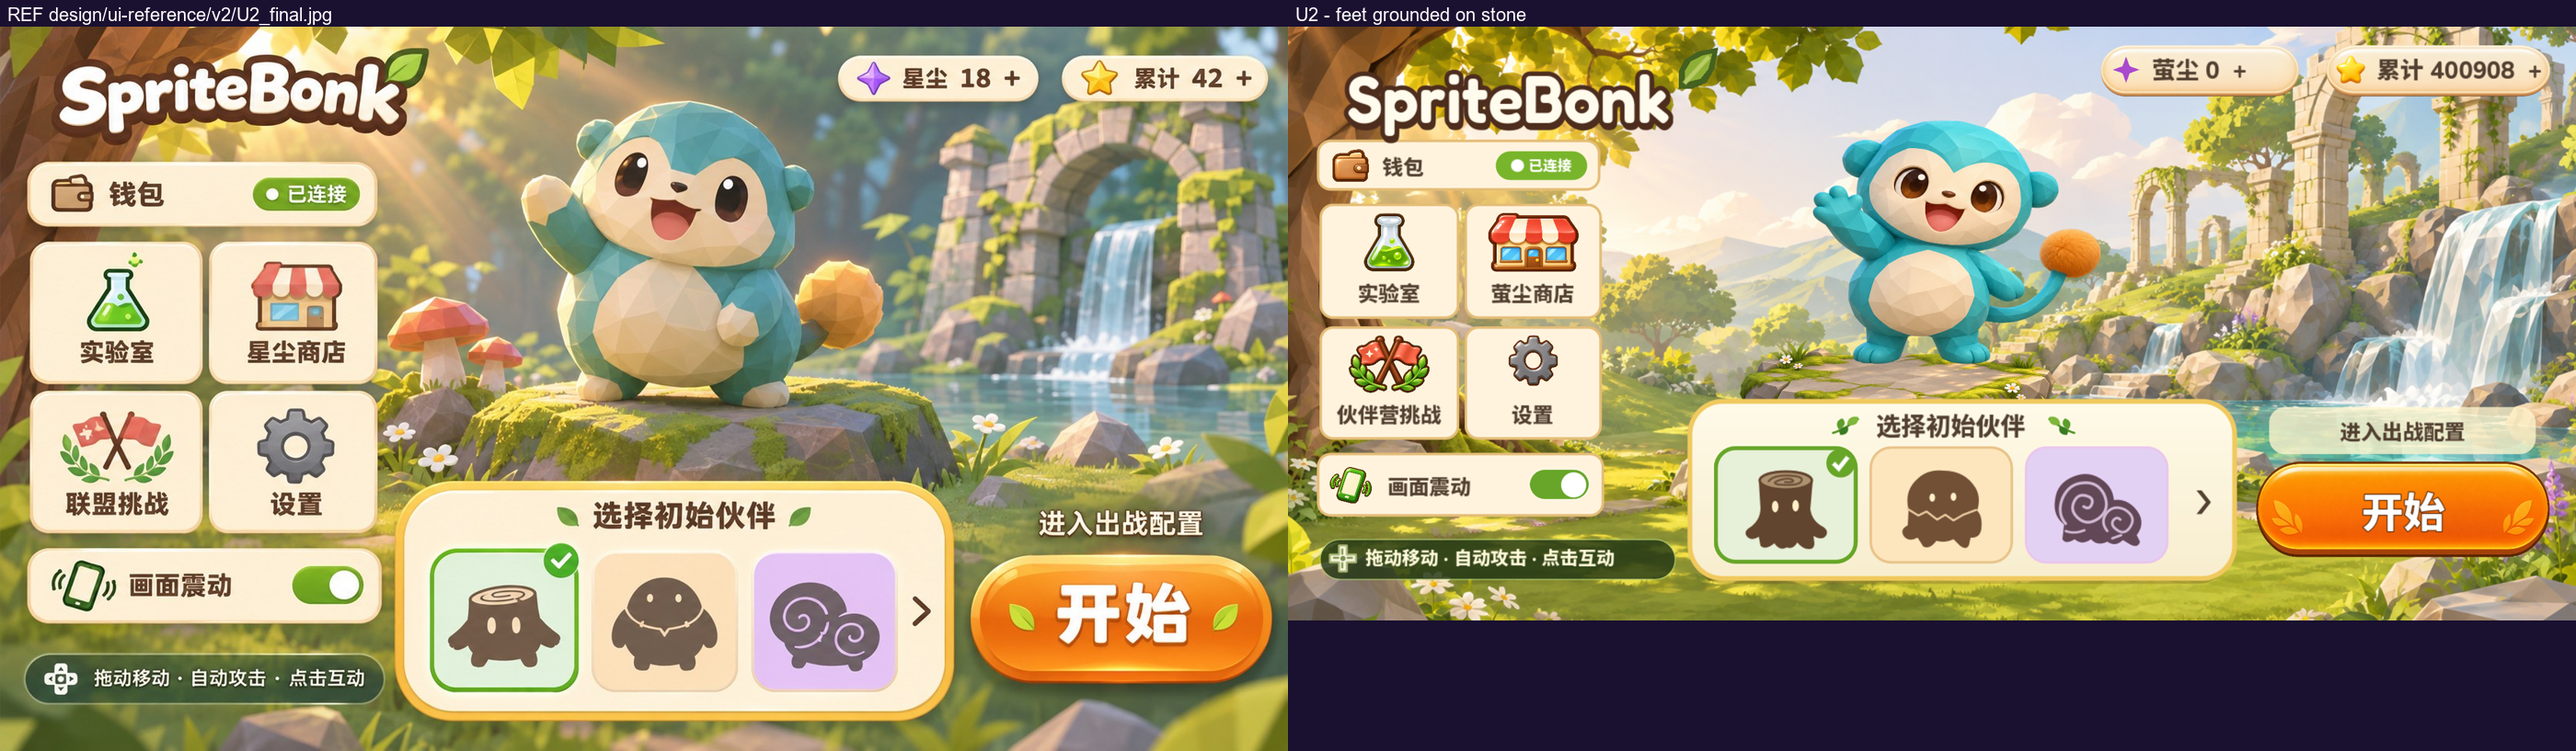
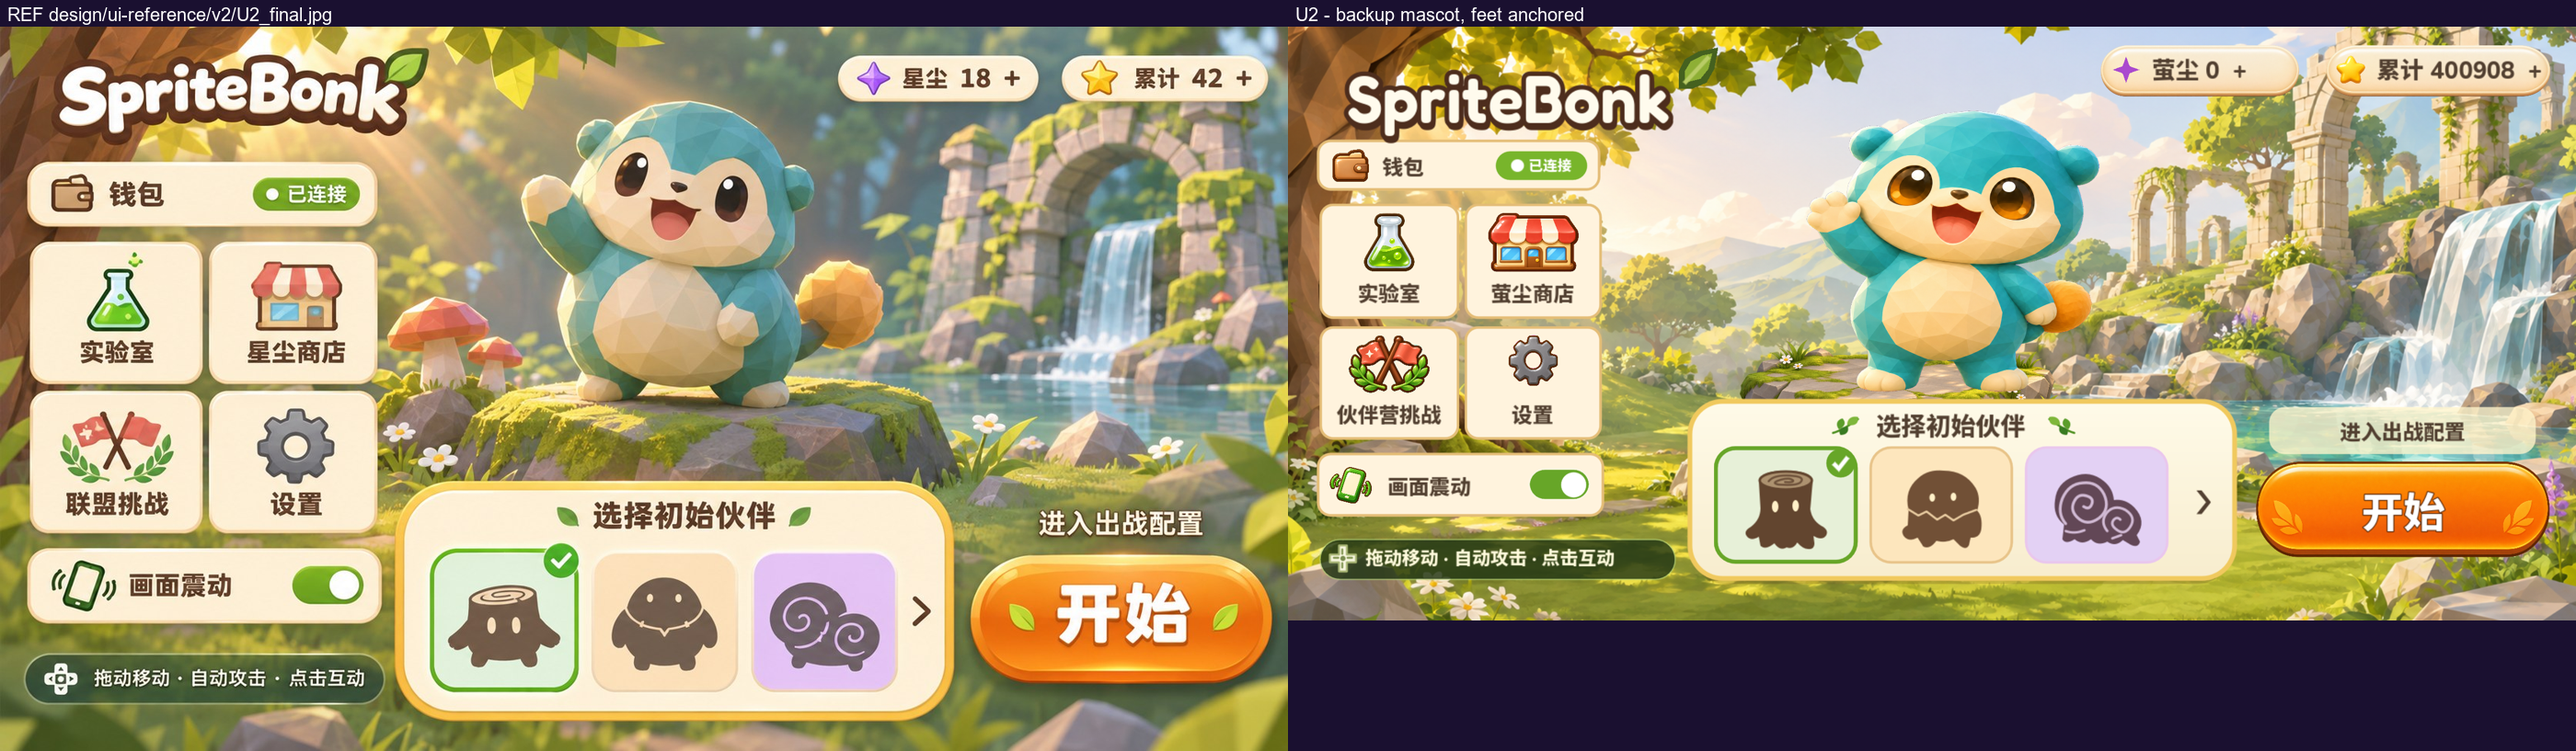
Align U2 backup mascot silhouette and anchor its visible feet

Changed region(s): [[0.6836, 0.153, 0.8389, 0.5202], [0.4971, 0.0, 0.6214, 0.0306]]

diff --git a/design/ui-alignment-progress.md b/design/ui-alignment-progress.md
@@ -287,3 +287,9 @@ U1 已重开，U3 不得开工（见「关闭门」）。第 9 轮：2340 复验
 - 五张备份 PNG 均已逐字节核验与 ZIP 原件相同，实验室沿用仓库原 PNG 并按有效 alpha 区域显示。最终双档菜单 **120/0**，全程 `u2-native-full` 2340 **1481/3**、2400 **1571/3**，相对起点新增失败均为 0。最后仅调整药瓶透明区域后再跑菜单双档 **120/0**，重新实拍双档并目检。
 - `compare/U2_left.png` 为用户指定左组局部对照，整屏双档对照同步更新。图形进程在保存及操作验证完成后仍有既有退出崩溃。一次中间截图出现场景预构建字典缺键，重拍最终两档无 SCRIPT ERROR，单独保留该中间日志，未把它计作通过。
 - 当前备份 PNG 的立体高光与定稿平面图仍有可见差别，左组尚未报 1:1 关闭。Notion 连接器本轮已移除，证据先落仓库台账，待连接恢复回写。
+
+## U2 角色与石板续作
+
+- 前两次落脚调整已安装 Seeker，用户再次指出未站稳后直接抓取真机，确认脚底位于石板后沿。`dba5c88` 将角色基准下移至参考 y130，真机更新后双脚位于石板中央表面。
+- 继续核查用户提供的 mascot_v2 备份包，发现奶油色手脚、短尾球的新角色 PNG。按原字节接入 `u2-art-mascot.png`，依据包内 fit_report 的有效区域 (89,91,947,1109) 设 AtlasTexture，并将显示宽高保持其原比例，脚底继续以石板中央落点定位。
+- 双档菜单快检均 **120/0**，2340 后台实拍已目检，双脚落在台面、奶油手脚与短尾球可见。当前角色来自已有交付 PNG，姿态及脸型仍与整屏定稿有可见差异，继续保持 U2 未关闭。
